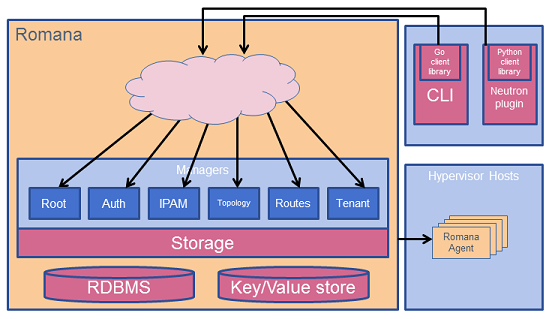
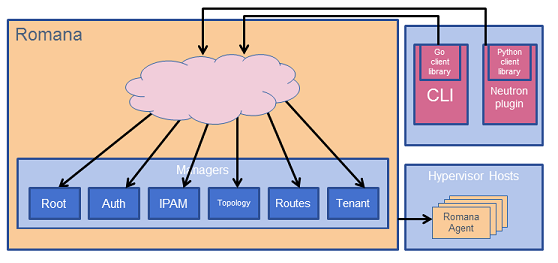
Updates to architecture page.

diff --git a/how/architecture.md b/how/architecture.md
@@ -8,15 +8,23 @@ secondnav: 3
 permalink: /how/romana_arch/
 ---
 
-Romana is implemented as a collection of microservices that together, automate creation, administration and control of [Cloud Native Networks](/cloud/cloud_native_networks/). A brief description of each Service is provided below. For more detail, as well as a description of the Service interactions, please see the [Architecture Wiki](https://github.com/romana/core/wiki) on GitHub.
+Romana is implemented as a collection of microservices that together automate
+creation, administration and control of [Cloud Native
+Networks](/cloud/cloud_native_networks/). A brief description of each service
+is provided below. For more detail, as well as a description of the service
+interactions, please see the [Architecture
+Wiki](https://github.com/romana/core/wiki) on GitHub.
 
 #### Cloud Orchestration
 
-Romana integrates directly into Cloud Orchestration systems so that developers can continue to use their existing tools and techniques to build their applications. For OpenStack, this integration is through the Modular Layer 2 (ML2) and IPAM drivers.
+Romana integrates directly into Cloud Orchestration systems so that developers
+can continue to use their existing tools and techniques to build their
+applications. For OpenStack, this integration is through the Modular Layer 2
+(ML2) and IPAM drivers. For Kubernetes, a CNI plugin is provided.
 
 #### Romana Services
 
-Romana Cloud Native SDN is implemented using the following Services:
+The Romana Cloud Native SDN is implemented using the following services:
 
 ![Romana Architecture]({{ site.baseurl }}/images/arch.png)
 
@@ -24,52 +32,65 @@ Romana Cloud Native SDN is implemented using the following Services:
 - [Authentication Service](#authorization-service)
 - [IPAM Service](#ipam-service)
 - [Topology Service](#topology-service)
-- [Router Manager Service](#route-manager-service)
-- [Host Configuration Service](#host-configuration-service)
+- [Route Manager Service](#route-manager-service)
 - [Tenant Service](#tenant-service)
-- [Storage Service](#storage-service)
+- [Host Configuration Service](#host-configuration-service)
 
 
-> Release v0.6 does not implement the Authentication Service or the Route Manager Service
+> Release v0.6 does not implement the Authentication service or the Route Manager Service
 
-All Romana Services are written in [Go](https://golang.org/) and may be deployed all on a single server, or distributed across any number of systems. Romana Services may be replicated to scale performance or to provide redundancy for high availability. 
+All Romana services are written in [Go](https://golang.org/) and may be
+deployed all on a single server, or distributed across any number of systems.
+Romana services may be replicated to scale performance or to provide redundancy
+for high availability. 
 
 
 #### Root Service
 
-The Root Service is where all Romana Services get registered, and where new Romana Services discover other Services and the overall capabilities of the environment. When a new service starts, it finds the Root Service and registers its name, IP address and capabilities. 
+The Root Service is where all Romana services are registered and discover other
+services as well as the the overall capabilities of the environment. When a new
+service starts, it finds the Root Service and registers its name, IP address
+and capabilities. 
 
 #### Authentication Service
 
-The Authentication Service authenticates each request from Romana Services. Not fully implemented in Release v0.6.
+The Authentication Service is used for clients and services to prove their
+identity and to obtain authentication tokens.  Not fully implemented in Release
+v0.6.
 
 #### IPAM Service
 
-The Romana IPAM Service implements the layer 3 tenancy model as described [here](/how/romana_details/#ip-address-management/). It provides the proper IP address to OpenStack Nova after learning which host will launch the guest VM. The IPAM Service interacts with OpenStack via its IPAM API and the Romana OpenStack IPAM driver.
+The Romana IPAM Service implements the layer 3 tenancy model as described
+[here](/how/romana_details/#ip-address-management/). It integrates with
+OpenStack via a pluggable IPAM driver: The request for the IP address is
+issued after the Nova scheduler decided on which host to place a new endpoint.
+For Kubernetes the integration takes place via the CNI plugin.
 
 #### Topology Service
 
-The Topology Service maintains the configuration of the physical network topology and the endpoints that are attached to the network.
+The Topology Service maintains the configuration of the physical network
+topology and the endpoints that are attached to the network.
 
 #### Route Manager Service
 
 *Not implemented in Release v0.6*
 
-The Route Manager Service is responsible for updating all routes throughout the system, except for the initial default route set on endpoints, which is set locally via the Host Configuration Service
-
-#### Host Configuration Service
-
-The Host Configuration Service configures the gateway interface on the host so that the default routes on endpoints all use the same Romana gateway interface.
-
+The Route Manager Service is responsible for updating all routes throughout the
+system, except for the initial default route set on endpoints, which is set
+locally via the Host Configuration Service.
 
 #### Tenant Service
 
-The Tenant Service maintains its own list of tenants and the endpoints and segments that are associated with their projects. The Tenant Service provides this information to the IPAM Service when it needs to issue a new IP address for an endpoint.
+The Tenant Service maintains its own list of tenants, which can be created to
+map tenants from the cloud orchestration system, such as OpenStack. When the
+IPAM Service needs to issue a new IP address for an endpoint it may query the
+Tenant Service for information.
 
-#### Storage Service
+#### Host Configuration Service
 
-The Romana Storage Service uses an SQL database as its primary data store for configuration and network state. When deployed with OpenStack, new database tables are created in the Neutron database and no separate data store is necessary.
-
-
-
+The Host Configuration Service configures the Romana gateway interface on the
+host for use as default gateway for any Romana managed endpoints. It also sets
+the necessary routes to reach Romana addresses on other hosts.
+Furthermore, it is used to configure traffic policy rules, for example security
+rules for traffic isolation.
 
